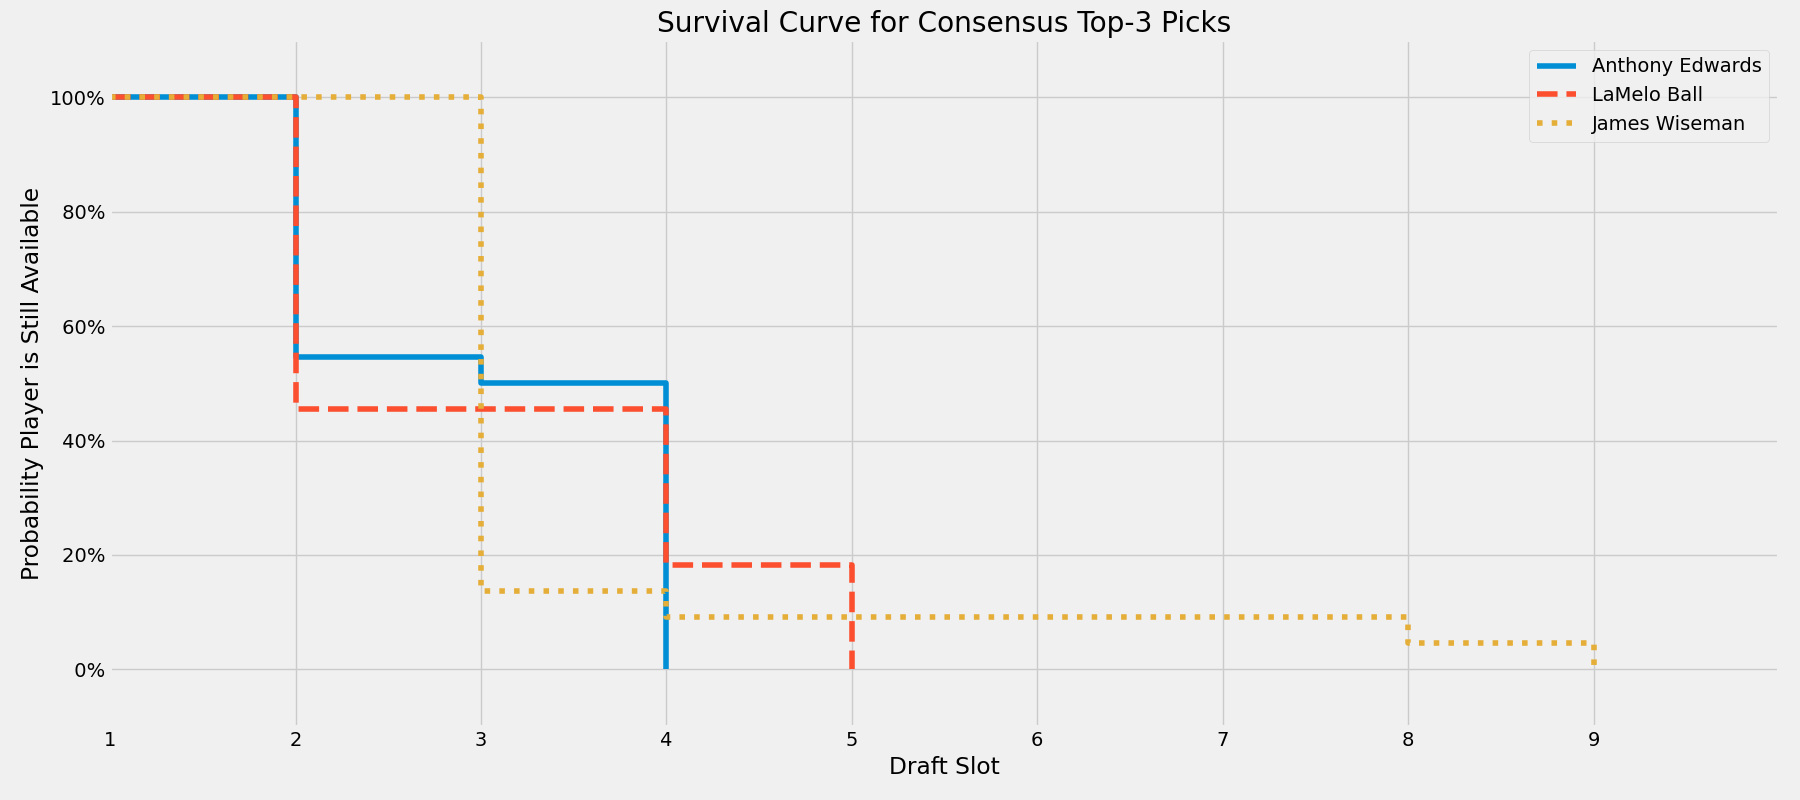
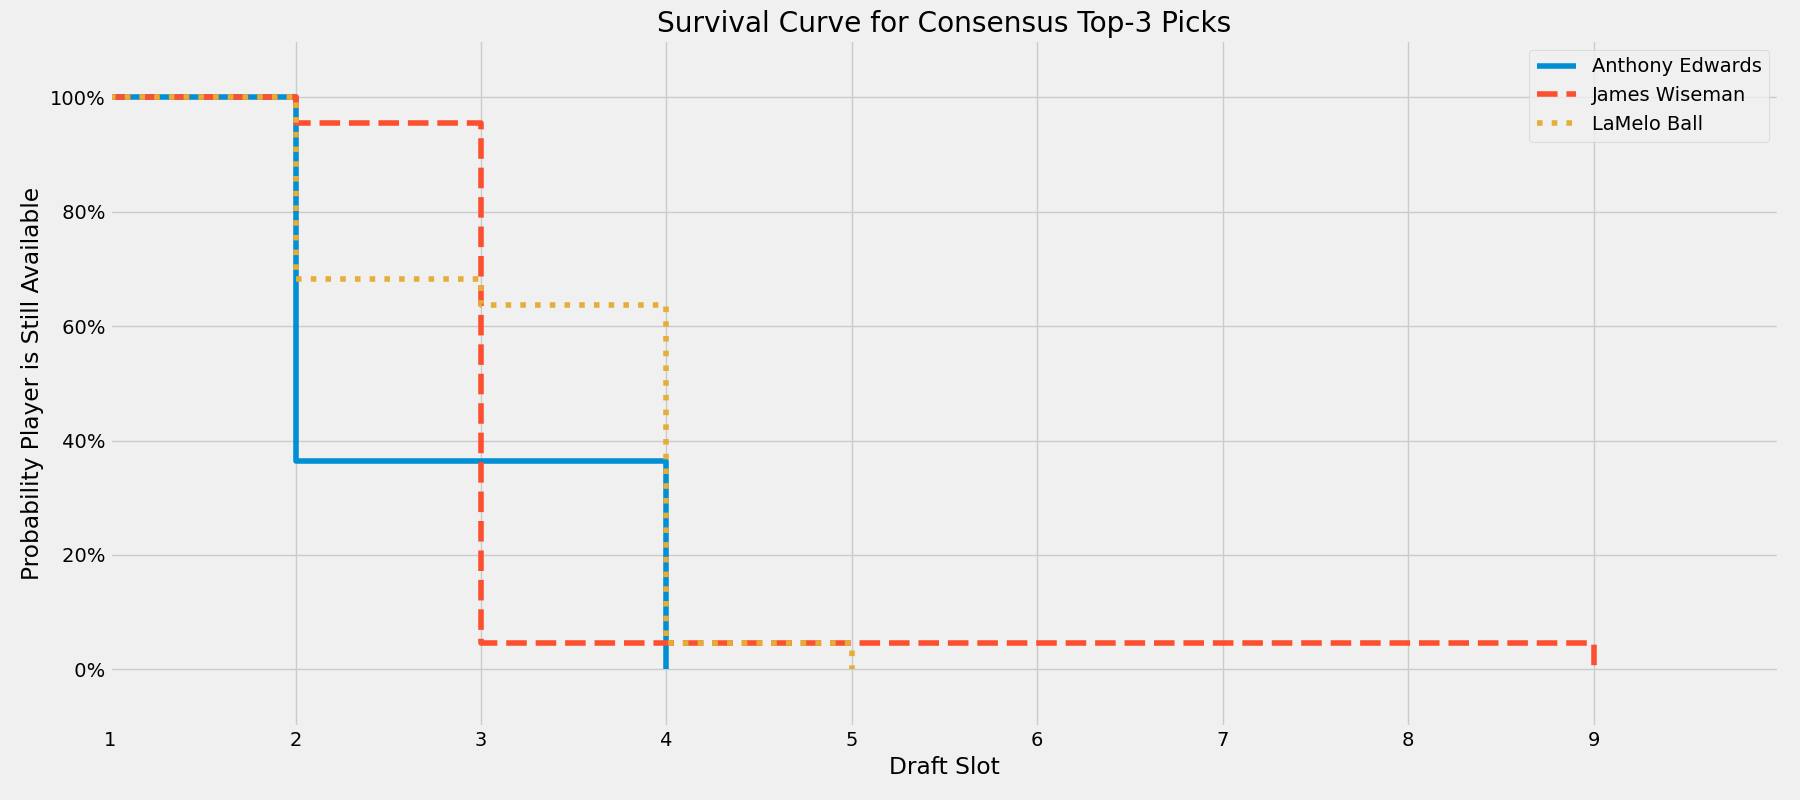
draft day update

diff --git a/readme.md b/readme.md
@@ -1,11 +1,11 @@
 <center> <h1>NBA Draft Survival Analysis</h1> </center>
-<center> <h3>Updated November 16, 2020</h3> </center>
+<center> <h3>Updated November 18, 2020</h3> </center>
 
 ---
 #### Motivation
 In preparation for the 2020 NBA Draft, I wanted to analyze when each prospect was likely to be selected. Compiling over 20 mock drafts from various draft analysts, I created a survival analysis which calculated the probability of each prospect being available at each draft slot.
 
-As an example, the following plot illustrates the probability that Anthony Edwards is available at each draft slot. Moving from left to right on the x-axis, we observe that based on the compiled mock drafts there is ~55% probability Edwards is available at pick number 2 and ~50% probability he is available at pick number 3.
+As an example, the following plot illustrates the probability that Anthony Edwards is available at each draft slot. Moving from left to right on the x-axis, we observe that based on the compiled mock drafts there is ~40% probability Edwards is available at picks number two and three, respectively, and that he'll be off the board by pick four.
 
 <div style="text-align:center"><img src='plots/players/anthony_edwards.png' width=70%></div>
 
@@ -22,32 +22,32 @@ Each player's survival curve is based on information compiled from over 20 mock 
 
 | Name  | Affiliation  | Updated  | Mock Draft  |
 |---|---|---|---|
-| Babcock Hoops  | Babcock Hoops  | November 2  | [Link](https://www.babcockhoops.com/mockdraft)  |
+| Babcock Hoops  | Babcock Hoops  | November 18  | [Link](https://www.babcockhoops.com/mockdraft)  |
 | Bryan Kalbrosky  | Rookie Wire  | October 22  | [Link](https://therookiewire.usatoday.com/lists/2020-nba-mock-draft-all-60-picks-post-combine/)  |
-| Chad Ford | NBA Big Board | November 15 | [Link](https://nbabigboard.com/mock-draft-2-0/) |
-| Chad Forsberg  | NBC Sports  | October 29  | [Link](https://www.nbcsports.com/boston/celtics/2020-nba-mock-draft-90-best-players-available-fit-team-needs)  |
+| Chad Ford | NBA Big Board | November 18 | [Link](https://nbabigboard.com/mock-draft-3-0/) |
+| Chad Forsberg  | NBC Sports  | November 16  | [Link](https://www.nbcsports.com/boston/celtics/2020-nba-mock-draft-projecting-all-30-first-round-picks?int)  |
 | Chris Stone  | Sporting News  | March 24  | [Link](https://www.sportingnews.com/us/nba/news/nba-mock-draft-2020-warriors-pick-timberwolves-lamelo-ball/178cr8zivu85e1qdtavgxp9cc2)  |
-| Danny Cunningham  | Complex  | November 2  | [Link](https://www.complex.com/sports/nba-mock-draft-pre-nba-draft/)  |
-| Gary Parrish  | CBS Sports  | November 13  | [Link](https://www.cbssports.com/nba/draft/mock-draft/)  |
-| James Ham  | NBC Sports | November 16  | [Link](https://www.nbcsports.com/bayarea/warriors/2020-nba-mock-draft-210-first-round-pick-projections-final-week)  |
+| Danny Cunningham  | Complex  | November 17  | [Link](https://www.complex.com/sports/nba-mock-draft-v.11/)  |
+| Gary Parrish  | CBS Sports  | November 18  | [Link](https://www.cbssports.com/nba/draft/mock-draft/)  |
+| James Ham  | NBC Sports | November 18  | [Link](https://www.nbcsports.com/bayarea/warriors/2020-nba-mock-draft-final-projections-all-30-first-round-picks)  |
 | Jeff Goodman  | Stadium  | August 21  | [Link](https://watchstadium.com/jeff-goodmans-2020-nba-mock-draft-3-0-lottery-order-revealed-08-20-2020/)  |
 | Jeremy Woo  | Sports Illustrated  | November 16  | [Link](https://www.si.com/nba/2020/11/16/nba-mock-draft-latest-updates-rumors-daily-cover)  |
 | John Hollinger | The Athletic | November 10 | [Link](https://theathletic.com/2188482/2020/11/10/2020-nba-mock-draft-whos-going-where-in-the-first-round/) |
-| Jonathan Givony  | ESPN  | November 16  | [Link](https://www.espn.com/nba/insider/story/_/id/30286832/nba-mock-draft-our-latest-intel-most-likely-picks-trades)  |
-| Jonathan Wasserman  | Bleacher Report  | November 16  | [Link](https://bleacherreport.com/articles/2917825-bleacher-reports-final-2020-nba-mock-draft)  |
-| Kevin O'Connor  | The Ringer  | November 12 | [Link](https://nbadraft.theringer.com/)  |
-| Krysten Peek  | Yahoo Sports  | November 5  | [Link](https://sports.yahoo.com/2020-nba-mock-draft-60-la-melo-ball-remains-no-1-163601345.html)  |
-| Kyle Boone  | CBS Sports  | November 13  | [Link](https://www.cbssports.com/nba/draft/mock-draft/)  |
-| NBAdraftnet | NBAdraftnet | November 14 | [Link](https://www.nbadraft.net/nba-mock-drafts/) |
-| NetScouts  | NetScouts  | November 13  | [Link](https://netscoutsbasketball.com/scouting/2020-nba-mock-draft/)  |
-| Ricky O'Donnell  | SB Nation  | November 5  | [Link](https://www.sbnation.com/nba/2020/11/5/21546769/nba-mock-draft-2020-lamelo-ball-anthony-edwards-warriors-bulls-rumors)  |
-| Sam Veceine  | The Athletic  | November 16  | [Link](https://theathletic.com/2198283/2020/11/16/2020-nba-draft-order-mock-draft-lamelo-ball-james-wiseman-anthony-edwards-live-updates-team-fit/)  |
-| Scott Gleeson  | USA Today  | November 12  | [Link](https://www.usatoday.com/story/sports/nba/2020/11/12/nba-mock-draft-lamelo-ball-anthony-edwards-no-1-pick/6235919002/)  |
-| Tankathon  | Tankathon  | November 15  | [Link](http://www.tankathon.com/mock_draft)  |
+| Jonathan Givony  | ESPN  | November 18  | [Link](https://www.espn.com/nba/insider/story/_/id/30286832/nba-mock-draft-our-latest-intel-most-likely-picks-trades)  |
+| Jonathan Wasserman  | Bleacher Report  | November 18  | [Link](https://bleacherreport.com/articles/2917825-bleacher-reports-final-2020-nba-mock-draft)  |
+| Kevin O'Connor  | The Ringer  | November 18 | [Link](https://nbadraft.theringer.com/)  |
+| Krysten Peek  | Yahoo Sports  | November 16  | [Link](https://sports.yahoo.com/nba-mock-draft-70-edwards-no-1-trade-options-for-lottery-teams-183011752.html)  |
+| Kyle Boone  | CBS Sports  | November 17  | [Link](https://www.cbssports.com/nba/draft/mock-draft/)  |
+| NBAdraftnet | NBAdraftnet | November 18 | [Link](https://www.nbadraft.net/nba-mock-drafts/) |
+| NetScouts  | NetScouts  | November 17  | [Link](https://netscoutsbasketball.com/scouting/2020-nba-mock-draft/)  |
+| Ricky O'Donnell  | SB Nation  | November 17  | [Link](https://www.sbnation.com/nba/2020/11/17/21561225/nba-mock-draft-2020-timberwolves-warriors-lamelo-ball)  |
+| Sam Veceine  | The Athletic  | November 18  | [Link](https://theathletic.com/2198283/2020/11/18/2020-nba-draft-order-mock-draft-lamelo-ball-james-wiseman-anthony-edwards-live-updates-team-fit/)  |
+| Scott Gleeson  | USA Today  | November 18  | [Link](https://www.usatoday.com/story/sports/nba/2020/11/17/nba-mock-draft-anthony-edwards-lamelo-ball/6325126002/)  |
+| Tankathon  | Tankathon  | November 17  | [Link](http://www.tankathon.com/mock_draft)  |
 
 #### Consensus Top-3 Picks
 
-Based on the average draft slot across all mock drafts Anthony Edwards (2.04), LaMelo Ball (2.09), and James Wiseman (2.54) are the consensus top three picks. Their respective survival curves are plotted below. At this point in time Edwards and Ball are a toss up as to who goes first overall. However, Wiseman then has the highest probability of going second.
+Based on the average draft slot across all mock drafts Anthony Edwards (1.72), James Wiseman (2.22), and LaMelo Ball (2.36) are the consensus top three picks. Their respective survival curves are plotted below. At this point in time Edwards is the favorite to go first overall, followed by Wiseman second, and Ball third.
 
 <div style="text-align:center"><img src='plots/top_3.png' width=90%></div>
 
@@ -59,7 +59,7 @@ In similar fashion, here are the survival curves of the consensus top-10 picks.
 
 #### Case Studies
 
-At this point the mock drafts have Anthony Edwards as the most likely first overall pick just ahead of LaMelo Ball. There's ~55% probability he is available at the number two pick and ~50% chance he is available at the third pick. Based on the mocks there is no chance he falls to the 4th pick.
+At this point the mock drafts have Anthony Edwards as the most likely first overall pick just ahead of LaMelo Ball. There's ~40% probability Edwards is available at picks number two and three, respectively. He'll be off the board by pick four.
 
 <div style="text-align:center"><img src='plots/players/anthony_edwards.png' width=90%></div>
 
@@ -71,7 +71,7 @@ Xavier Tillman provides a good example of a player likely to go in the middle of
 
 <br>
 
-Kenyon Martin Jr. is a player on the fringe of being drafted. The mock drafts have him unlikely to be selected prior to pick number 50. In total, there is ~65% probability he goes undrafted.
+Kenyon Martin Jr. is a player on the fringe of being drafted. The mock drafts have him unlikely to be selected prior to pick number 50. In total, there is ~70% probability he goes undrafted.
 
 <div style="text-align:center"><img src='plots/players/kenyon_martin_jr.png' width=90%></div>
 
